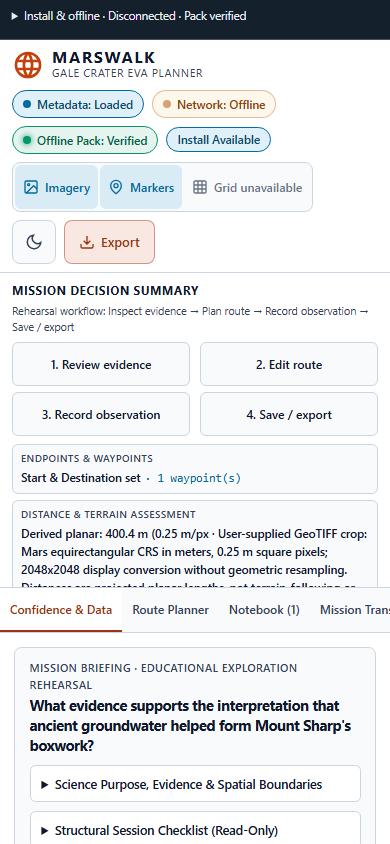
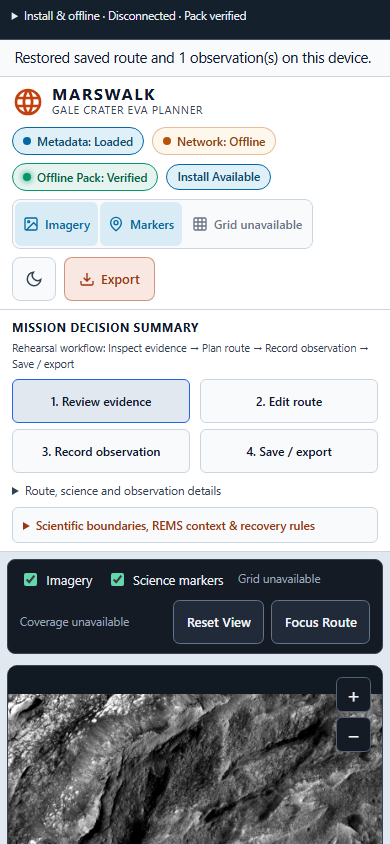
docs: retest B1/B3 fixes on main 7798074 and refresh evidence
The coordinator's b28f6ad restores the saved mission at startup and lets
the phone layout scroll. Retested on merge e30a3fe:

- B1 fixed: after a full offline browser-process restart the app shows
  "Restored saved route and 1 observation(s) on this device." before any
  button press; route, note and export match.
- B3 fixed as a blocker: the phone map is reachable by scrolling (full
  488 px; 178 px on first view), no horizontal overflow.
- B2 still open: the next save still overwrites an unreadable record.
- New build warning from b28f6ad: shell.component.scss 324 bytes over
  its 4 kB budget.
- 250/250 unit, 11/11 worker, build OK, smoke 9/9, 0 page/console errors.

Screenshots and results/latest.json now come from this run.

diff --git a/docs/qa/TAKOU_RELEASE_BLOCKERS.md b/docs/qa/TAKOU_RELEASE_BLOCKERS.md
@@ -3,7 +3,8 @@
 Started 15 November 2026 by Takou (Charles) with a coding agent, on branch
 `feature/takou-release-integration`. First tested on `main` **2626a6b** (runtime = public
 candidate 38516f8), then rebased onto `main` **842ad3d** (runtime = calibrated public candidate
-3d47a7b apart from CRLF in `index.html`) and every check re-run. Evidence and commands:
+3d47a7b apart from CRLF in `index.html`) and every check re-run, then merged with `main` **7798074** (coordinator fixes for B1 and B3,
+source b28f6ad) and re-run again. Evidence and commands:
 [TAKOU_RELEASE.md](TAKOU_RELEASE.md).
 
 Priority order: lost mission data → failed offline recovery → broken loading → unusable
@@ -12,15 +13,21 @@ behaviour; fixes are proposals for the named owner.
 
 | ID | Severity | Summary | Owner | State |
 | --- | --- | --- | --- | --- |
-| B1 | Data loss | Saving before Load Route after reopening overwrites saved notes | Coordinator (+ Emma 1 wording) | Open, reproduced |
-| B2 | Data loss | Saving after a failed load overwrites the unreadable record | Coordinator | Open, reproduced |
-| B3 | Unusable control | Phone 390 × 844: 0 px of map visible on 842ad3d (89 px on 2626a6b) | Emma 1 + Willy | Open, measured |
+| B1 | Data loss | Saving before Load Route after reopening overwrote saved notes | Coordinator | **Fixed in b28f6ad**, retested (unit + browser) |
+| B2 | Data loss | Saving after a failed restore overwrites the unreadable record | Coordinator | **Open**, still reproduced on 7798074 |
+| B3 | Unusable control | Phone 390 × 844: 0 px of map visible on 842ad3d (89 px on 2626a6b) | Coordinator | **Fixed in b28f6ad**: page scrolls, full 488 px map reachable |
 | B4 | Low | Windows checkout changes the pack version (CRLF `index.html`) | Coordinator | Open |
 
-**Until B1 is fixed, demo rule:** after reopening the app, press **Load Route** before saving
-anything.
+**Demo rule:** on builds before b28f6ad, press **Load Route** before saving anything after
+reopening. From b28f6ad on, the app restores automatically and shows "Restored saved route and
+N observation(s) on this device."; check that message before saving.
 
-## B1 — Saved notes are overwritten when saving before Load Route (DATA LOSS, open)
+## B1 — Saved notes are overwritten when saving before Load Route (DATA LOSS, fixed in b28f6ad)
+
+**Retest on merge e30a3fe (main 7798074):** unit tests "B1 fixed: …" in
+`mission-recovery-sessions.spec.ts` pass, and the browser run restored the exact route and note
+at startup, offline, before any button press (TAKOU_RELEASE.md, last section). Record of the
+original finding below.
 
 | Field | Detail |
 | --- | --- |
@@ -36,6 +43,11 @@ anything.
 
 ## B2 — A note saved after a failed load overwrites the unreadable record (DATA LOSS, open)
 
+**Still open on 7798074.** Startup restore now fails visibly ("…Saved data was not deleted.
+Export current work before replacing it.") and leaves the bytes, but the next successful note
+or route save still replaces them. Test: "REPRODUCES DATA LOSS (B2)" in
+`mission-recovery-sessions.spec.ts`.
+
 | Field | Detail |
 | --- | --- |
 | Reproduction | Stored record exists but fails validation (for example, one out-of-bounds point) while still holding readable notes. Load Route reports "Saved mission is invalid…". Save a new note. |
@@ -45,7 +57,12 @@ anything.
 | Owner / fix | Coordinator, same change as B1. |
 | Retest | Pending. |
 
-## B3 — On a phone the map is off-screen or nearly so (UNUSABLE CONTROL, open)
+## B3 — On a phone the map is off-screen or nearly so (UNUSABLE CONTROL, fixed in b28f6ad)
+
+**Retest on merge e30a3fe:** the phone page scrolls; map at y = 666 px, 178 px visible on first
+view, the full 488 px visible when scrolled into view; no horizontal overflow
+(`phone-390-offline.png`, `phone-390-map-scrolled-into-view.png`). The map-first layout in the
+design review remains an improvement, not a blocker. Record of the finding below.
 
 | Field | Detail |
 | --- | --- |
@@ -78,8 +95,8 @@ before judging (owner: Enzo Agent 2 for presentation documents, coordinator for 
 | # | Where | Problem | Proposed wording / action |
 | --- | --- | --- | --- |
 | C1 | `docs/JUDGES_QA.md:47` | Says official challenge requirements are unverified because of a 403. The Details text is now in `docs/challenge/` (REQUIREMENTS.md says not to keep claiming it is unknown). | "Details text supplied and assessed in docs/challenge/REQUIREMENTS.md; Resources tab, submission fields and deadline timezone still unverified." |
-| C2 | `docs/JUDGES_QA.md:46` | Calls Royce's issue "note persistence across device standby". His report says app close/reopen, and B1 now explains a real loss path. | "Saving before Load Route after reopening overwrites saved notes (B1, fix pending); browser restart recovery passes when Load Route is pressed first." |
-| C3 | `docs/DEMO_SCRIPT.md:55` | Correctly says to press Load Route, but does not warn presenters against saving first. | Add: "Do not press Save Route or save a note before Load Route" until B1 is fixed. |
+| C2 | `docs/JUDGES_QA.md:46` (after b28f6ad: say startup restores automatically) | Calls Royce's issue "note persistence across device standby". His report says app close/reopen, and B1 now explains a real loss path. | "Saving before Load Route after reopening overwrites saved notes (B1, fix pending); browser restart recovery passes when Load Route is pressed first." |
+| C3 | `docs/DEMO_SCRIPT.md:55` (after b28f6ad: show the restore message instead) | Correctly says to press Load Route, but does not warn presenters against saving first. | Add: "Do not press Save Route or save a note before Load Route" until B1 is fixed. |
 | C4 | `docs/PRESENTATION.md:26` | "WebGL resources released on exit" is stronger than the evidence. The code disposes geometries, materials and textures and the smoke test shows the viewer DOM is removed; GPU memory release is not measured. | "Viewer is removed and its Three.js objects disposed when closed." |
 | C5 | `docs/AI_USE.md:24`, `docs/JUDGES_QA.md:59` | AI disclosure names OpenAI Codex and Google Antigravity only. Takou's QA branch (tests, harness, these documents) was produced with Anthropic Claude Code under his supervision. | Add Claude Code to the tool list with the scope above. Development tooling only; no runtime AI. |
 | C6 | `docs/DEMO_SCRIPT.md:31` | Says distance is "reported as unavailable: pixel scale is uncalibrated". Since 3d47a7b the app shows a derived planar distance (observed "Derived planar: 400.4 m (0.25 m/px …)"). The script now contradicts the screen. | "Planar distance in the projected map plane from the verified 0.25 m crop; not terrain-following; slope and safety unavailable." |
@@ -99,8 +116,8 @@ commands and raw results.
 | Python data tests | **Pass** 54/54 with Pillow 13.0.0; 15 fail without Pillow (dependency missing, not data) |
 | Production build | **Pass**, initial 450.97 kB, Leaflet CommonJS warning only |
 | Production serve, console/network, manifest/icons/worker/pack | **Pass** locally: 0 page/console errors, 0 failed requests, 0 404s; 3 icons 200; worker registered; 19-file pack verified |
-| Disconnected full-process recovery (desktop Chrome) | **Pass when Load Route is pressed first**; B1 explains the loss path otherwise |
-| Phone-width usability | **Fails** B3 (0 px visible map on 842ad3d); no horizontal overflow |
+| Disconnected full-process recovery (desktop Chrome) | **Pass**, restored automatically at startup on 7798074 (B1 fixed); B2 still open for unreadable records |
+| Phone-width usability | **Pass** on 7798074 (map reachable by scrolling, 488 px); was 0 px on 842ad3d |
 | Public candidate link | **Reachable** anonymously (HTTP 200 for `/`, manifest, worker, pack); pack `a80ff718…` matches its record. Production `marswalk-jet.vercel.app` also 200 but older. |
 | Physical Android/iOS installed recovery | **Pending** (Royce / Willy 2). Browser emulation is not device acceptance. |
 | Official submission portal fields, upload limits, deadline timezone | **Unverified.** Only the Details text is in `docs/challenge/`. The 10 pm deadline is user-reported; timezone unconfirmed. Owner: coordinator/user. |

diff --git a/docs/design/TAKOU_DESIGN_REVIEW.md b/docs/design/TAKOU_DESIGN_REVIEW.md
@@ -5,15 +5,16 @@ Styling work starts only after an explicit file-ownership handoff from Emma.
 
 - Tested revisions: `main` **842ad3d** (runtime = calibrated public candidate **3d47a7b**, which
   adds the 0.25 m/px crop, planar distance and Emma's mission decision workspace) and, before the
-  rebase, `main` **2626a6b** (= public candidate 38516f8). Screenshots are from 842ad3d.
+  rebase, `main` **2626a6b** (= public candidate 38516f8). Screenshots are from the merge with
+  `main` **7798074** (coordinator fixes b28f6ad: startup restore, scrolling phone layout).
 - Screenshots: `docs/design/takou-screens/` (source, URL and viewport in the table below).
 - Scope: existing tokens in `src/styles.scss`, existing components, existing capabilities.
   No new scientific values, map positions, readiness states, fonts or frameworks.
 
 ## Screenshots
 
-All captured by the Package 3 harness run `2026-11-15T15-18-08-462Z-vcdn2y`: production build
-of 842ad3d + QA commits served at `http://127.0.0.1:4310/`, Chrome 157.0.8103.51 headless, default
+All captured by the Package 3 harness run `2026-11-15T15-49-52-598Z-3u6xee`: production build
+of merge e30a3fe (main 7798074 + QA commits) served at `http://127.0.0.1:4310/`, Chrome 157.0.8103.51 headless, default
 light colour scheme, synthetic test mission only.
 
 | File | Viewport | State |
@@ -21,10 +22,11 @@ light colour scheme, synthetic test mission only.
 | `desktop-1366-initial.png` | 1366 × 768 | First load online, pack not prepared |
 | `desktop-1366-route.png` | 1366 × 768 | Route drawn (start, waypoint, destination), Route Planner tab |
 | `desktop-1366-notebook-failed-save.png` | 1366 × 768 | Simulated full storage: error shown, draft kept |
-| `desktop-1366-offline-startup-before-load.png` | 1366 × 768 | Offline after full restart, **before** Load Route: Notebook (0) |
+| `desktop-1366-offline-startup-restored.png` | 1366 × 768 | Offline after full restart: restored automatically, Notebook (1), restore message |
 | `desktop-1366-viewer.png` | 1366 × 768 | Optional flat viewer open, offline |
-| `phone-390-offline.png` | 390 × 844 | Offline, default layout: decision summary above the map, **0 px of map visible** |
-| `phone-390-panel-collapsed.png` | 390 × 844 | Same with Collapse Panel: still 0 px without scrolling |
+| `phone-390-offline.png` | 390 × 844 | Offline, top of page: 178 px of map visible |
+| `phone-390-map-scrolled-into-view.png` | 390 × 844 | Same, map scrolled into view: full 488 px |
+| `phone-390-panel-collapsed.png` | 390 × 844 | After Collapse Panel (page scrolled to that button) |
 | `prototype-phone-390.png` | 390 × 844 | **Prototype** `tools/design/takou/index.html` (file URL, not the app): map 436 px |
 | `prototype-desktop-1366.png` | 1366 × 768 | **Prototype**, desktop: map + 380 px panel |
 
@@ -34,6 +36,10 @@ failures in problem 5 apply to the dark theme.
 ## The five most serious usability problems (ranked by mission impact)
 
 ### 1. Saved work looks lost after reopening, and saving first erases it
+
+**Status on 7798074:** largely addressed by the coordinator (b28f6ad): automatic restore with a
+visible "Restored saved route and N observation(s)" message. Remaining: B2 (unreadable record
+overwritten on next save) and the "Load Route" label that still says route only.
 
 After a restart the Notebook says "No observations recorded yet for this mission session."
 (`notebook.component.html:166`) and the Route Planner is empty. The only restore is **Load
@@ -54,6 +60,10 @@ of Royce's Samsung report.
   inverted and passing).
 
 ### 2. On a phone the map is almost invisible
+
+**Status on 7798074:** fixed as a blocker by b28f6ad; the page scrolls and the full 488 px map
+is reachable (178 px on first view). The proposal below still makes the map the first thing
+seen on a phone.
 
 Measured at 390 × 844 with the smoke harness (on-screen height, clipping included). On
 **842ad3d** the new Mission Decision Summary sits between the header and the map; the map

diff --git a/docs/qa/TAKOU_RELEASE.md b/docs/qa/TAKOU_RELEASE.md
@@ -2,7 +2,8 @@
 
 Takou (Charles) with a coding agent, 15 November 2026. Branch
 `feature/takou-release-integration` from `main` **2626a6b016d0f40385ff3c3f1b4adbb19ccf1605**
-(2026-11-15 13:35 UTC), then rebased onto `main` **842ad3d** and re-verified (last section).
+(2026-11-15 13:35 UTC), then rebased onto `main` **842ad3d**, then merged with `main` **7798074** (B1/B3 fixes) and
+re-verified (last two sections).
 Every number below was produced in this environment on this date;
 no historical count is copied. Blockers: [TAKOU_RELEASE_BLOCKERS.md](TAKOU_RELEASE_BLOCKERS.md).
 
@@ -195,3 +196,38 @@ Observed on this revision:
 
 Screenshots in `docs/design/takou-screens/` and `tools/qa/takou/results/latest.json` are now
 from this run. The 2626a6b sections above remain the record for that revision.
+
+## Re-verification after merging main 7798074 (B1 and B3 fixes)
+
+After the push, `main` gained `b28f6ad` "Fix mobile map layout and restore saved missions on
+startup" (coordinator) and `7798074`. `b28f6ad` also added the coordinator's own
+`src/app/core/mission-recovery.spec.ts`, the path used by my first commit. Merge `e30a3fe`
+(main merged into this branch, no force push) keeps the coordinator's file unchanged, moves my
+tests to `src/app/core/mission-recovery-sessions.spec.ts` and inverts the two B1 reproductions
+into "B1 fixed: …" guards. Test names in the Package 2 table above refer to the earlier file.
+
+| Check | Result on merge e30a3fe (main 7798074 + QA) |
+| --- | --- |
+| Recovery specs (verbose) | **13 passed**: coordinator's 4 + my 9, including both "B1 fixed" tests; "REPRODUCES DATA LOSS (B2)" still passes, so **B2 is still open** |
+| `npm test` | **25 files, 250 tests passed** (241 on main + 9) |
+| `npm run test:pwa` | **11 passed** |
+| `npm run build` | **exit 0**; initial 474.97 kB raw / 119.62 kB transfer; pack `3653cf784ff4…`, 19 assets, 2,611,959 bytes. New warning from `b28f6ad`: `shell.component.scss` exceeds its 4.00 kB budget by 324 bytes (4.32 kB). Leaflet CommonJS warning as before. |
+| Python data tests | Not re-run: `public/data` and `tools/data` are unchanged since 842ad3d (54/54 there) |
+| Smoke harness | **9 passed in 22.2 s**, run `2026-11-15T15-49-52-598Z-3u6xee`; 0 page/console errors, 0 failed requests, 0 server 404s |
+| Public review URL `https://marswalk-review-boys-band.vercel.app/` (source b28f6ad) | HTTP 200; pack `41a3ae779880…` differs from the local build **only in `index.html`** (CRLF, B4) |
+
+Observed in the browser:
+
+- **B1 fixed.** After the full browser-process restart with the server stopped and offline
+  emulation, the page showed "Restored saved route and 1 observation(s) on this device."
+  **before any button was pressed**; Notebook (1) with the exact note, the same three route
+  rows, and the export equal to the first in `imageRef`, `route` and `observations`. An
+  explicit Load Route afterwards changes nothing.
+- **B3 fixed (map reachable).** At 390 × 844 the phone page now scrolls: the map starts at
+  y = 666 px, 178 px is visible on first view, and the whole 488 px map is visible once
+  scrolled into view (scrollY 310). No horizontal overflow. The design proposal (map first)
+  would still improve the first view.
+- Harness changes for this revision: check 7 now expects automatic restore; the planner is
+  lazy-loaded, so the test waits for its rows; route rows are read cell by cell (innerText
+  dropped the separators while the table was not laid out); check 9 also measures the map
+  after scrolling and measures the collapsed state from the top of the page.
